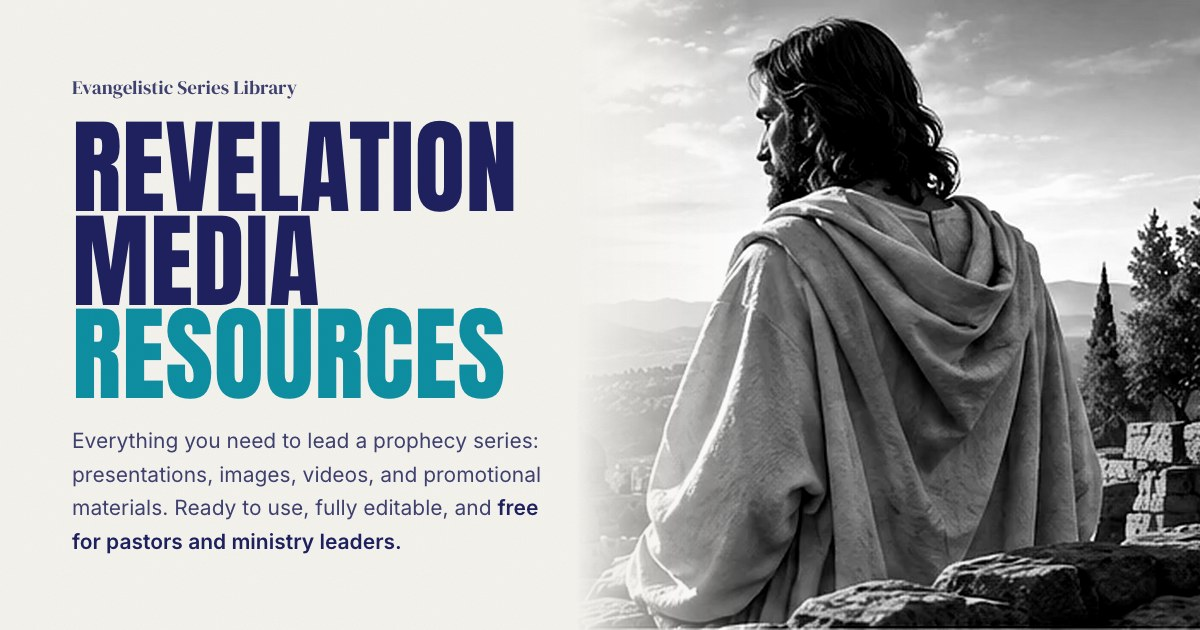
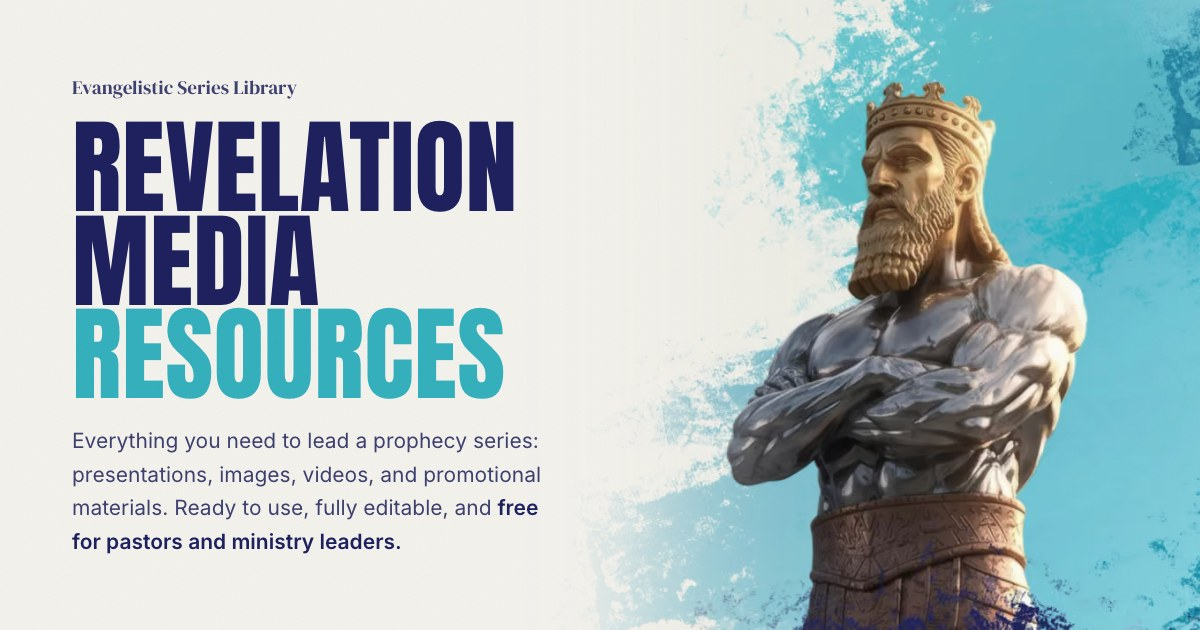
Match the Figma design (1440w light)
- Hero: Daniel 2 statue artwork with the eased left fade; navy header
- Accent teal #36B1BE; brush-stroke textures behind sections (Brush.astro)
- Trailer cover, gallery and demo images from Figma; demo on an off-white card
- About block built around the author (Justin Kim) with his portrait
- Stats: number and plus never wrap, sized to the cell; phone grid fixed
- Open Graph images regenerated

diff --git a/src/i18n/locales/en.ts b/src/i18n/locales/en.ts
@@ -78,10 +78,10 @@ const en = {
   trailer: {
     eyebrow: 'Trailer',
     title: "See what's *inside*",
-    sub: 'A 90-second look at the presentations, visuals, and resources in the full kit.',
+    sub: 'A quick look at the presentations, visuals, and resources in the full kit.',
     playLabel: 'Play trailer',
     metaLabel: 'Official trailer',
-    duration: '1:30',
+    duration: '0:19',
     modalLabel: 'Trailer',
     closeLabel: 'Close',
     placeholder: 'The trailer will play here (YouTube embed, loaded on click).',
@@ -102,11 +102,11 @@ const en = {
     note: 'A look at some of the materials in the kit.',
     // Order and keys are fixed by the grid layout. Image files: src/assets/slots/gallery-<key>.*
     gallery: {
-      slide: { caption: 'Presentation slide', kicker: 'Session 01', title: 'The prophecy *unfolds*', alt: 'Presentation slide from the series' },
-      flyer: { caption: 'Printed flyer', kicker: 'Starting soon', title: 'Hope Beyond Tomorrow', alt: 'Printed flyer for the series' },
-      art: { caption: 'Series artwork', alt: 'Series artwork' },
-      video: { caption: 'Video clip', alt: 'Still from a video clip' },
-      social: { caption: 'Social post', title: 'There is hope for tomorrow', alt: 'Social media post for the series' },
+      slide: { caption: 'Presentation slide', kicker: 'Session 01', title: 'The prophecy *unfolds*', alt: 'A presentation slide from the series on a screen in front of an audience' },
+      flyer: { caption: 'Printed flyer', kicker: 'Starting soon', title: 'Hope Beyond Tomorrow', alt: 'Hands holding a printed flyer for the series' },
+      art: { caption: 'Series artwork', alt: 'Series artwork on a poster, cards, a tablet and a phone' },
+      video: { caption: 'Video clip', alt: 'A video clip from the series playing on a laptop' },
+      social: { caption: 'Social post', title: 'There is hope for tomorrow', alt: 'A social media post for the series on a phone' },
     },
   },
 
@@ -152,16 +152,18 @@ const en = {
   },
 
   about: {
-    eyebrow: 'About the team',
-    title: 'Created by *Lorem Ipsum Ministries*',
+    // The block is about the author of the project: name, role, his words, then the team
+    eyebrow: 'The author of the project',
+    title: 'Meet *Justin Kim*',
+    teamTitle: 'Created with Lorem Ipsum Ministries',
     paragraphs: [
       'Lorem ipsum dolor sit amet, consectetur adipiscing elit. Sed do eiusmod tempor incididunt ut labore et dolore magna aliqua. Ut enim ad minim veniam, quis nostrud exercitation ullamco laboris nisi ut aliquip ex ea commodo consequat.',
       'Duis aute irure dolor in reprehenderit in voluptate velit esse cillum dolore eu fugiat nulla pariatur. Excepteur sint occaecat cupidatat non proident, sunt in culpa qui officia deserunt.',
     ],
     quote: 'Lorem ipsum dolor sit amet, consectetur adipiscing elit. Integer posuere erat a ante venenatis dapibus, ut fermentum massa justo sit amet risus.',
-    author: 'Justin Lorem',
+    author: 'Justin Kim',
     role: 'Project Lead, Lorem Ipsum Ministries',
-    imageAlt: 'Justin Lorem, Project Lead',
+    imageAlt: 'Justin Kim, Project Lead',
   },
 
   faq: {

diff --git a/src/i18n/locales/es.ts b/src/i18n/locales/es.ts
@@ -69,10 +69,10 @@ const es: Site = {
   trailer: {
     eyebrow: 'Tráiler',
     title: 'Descubra lo que *incluye*',
-    sub: 'Un recorrido de 90 segundos por las presentaciones, imágenes y recursos del kit completo.',
+    sub: 'Un breve recorrido por las presentaciones, imágenes y recursos del kit completo.',
     playLabel: 'Reproducir tráiler',
     metaLabel: 'Tráiler oficial',
-    duration: '1:30',
+    duration: '0:19',
     modalLabel: 'Tráiler',
     closeLabel: 'Cerrar',
     placeholder: 'Aquí se reproducirá el tráiler (video de YouTube, se carga al hacer clic).',
@@ -92,11 +92,11 @@ const es: Site = {
     ],
     note: 'Una muestra de algunos materiales del kit.',
     gallery: {
-      slide: { caption: 'Diapositiva', kicker: 'Sesión 01', title: 'La profecía *se revela*', alt: 'Diapositiva de una presentación de la serie' },
-      flyer: { caption: 'Volante impreso', kicker: 'Muy pronto', title: 'Esperanza para el mañana', alt: 'Volante impreso de la serie' },
-      art: { caption: 'Arte de la serie', alt: 'Arte de la serie' },
-      video: { caption: 'Video', alt: 'Fotograma de un video' },
-      social: { caption: 'Publicación en redes', title: 'Hay esperanza para el mañana', alt: 'Publicación para redes sociales de la serie' },
+      slide: { caption: 'Diapositiva', kicker: 'Sesión 01', title: 'La profecía *se revela*', alt: 'Una diapositiva de la serie en una pantalla frente al público' },
+      flyer: { caption: 'Volante impreso', kicker: 'Muy pronto', title: 'Esperanza para el mañana', alt: 'Manos sosteniendo un volante impreso de la serie' },
+      art: { caption: 'Arte de la serie', alt: 'Arte de la serie en un cartel, tarjetas, una tableta y un teléfono' },
+      video: { caption: 'Video', alt: 'Un video de la serie reproduciéndose en un portátil' },
+      social: { caption: 'Publicación en redes', title: 'Hay esperanza para el mañana', alt: 'Una publicación de la serie para redes sociales en un teléfono' },
     },
   },
 
@@ -140,16 +140,17 @@ const es: Site = {
   },
 
   about: {
-    eyebrow: 'Sobre el equipo',
-    title: 'Creado por *Lorem Ipsum Ministries*',
+    eyebrow: 'El autor del proyecto',
+    title: 'Conozca a *Justin Kim*',
+    teamTitle: 'Creado con Lorem Ipsum Ministries',
     paragraphs: [
       'Lorem ipsum dolor sit amet, consectetur adipiscing elit. Sed do eiusmod tempor incididunt ut labore et dolore magna aliqua. Ut enim ad minim veniam, quis nostrud exercitation ullamco laboris nisi ut aliquip ex ea commodo consequat.',
       'Duis aute irure dolor in reprehenderit in voluptate velit esse cillum dolore eu fugiat nulla pariatur. Excepteur sint occaecat cupidatat non proident, sunt in culpa qui officia deserunt.',
     ],
     quote: 'Lorem ipsum dolor sit amet, consectetur adipiscing elit. Integer posuere erat a ante venenatis dapibus, ut fermentum massa justo sit amet risus.',
-    author: 'Justin Lorem',
+    author: 'Justin Kim',
     role: 'Líder del proyecto, Lorem Ipsum Ministries',
-    imageAlt: 'Justin Lorem, líder del proyecto',
+    imageAlt: 'Justin Kim, líder del proyecto',
   },
 
   faq: {

diff --git a/src/lib/slots.ts b/src/lib/slots.ts
@@ -11,6 +11,7 @@ export type SlotName =
   | 'gallery-art'
   | 'gallery-video'
   | 'gallery-social'
+  | 'demo'
   | 'demo-flyer'
   | 'demo-slide'
   | 'demo-image'
